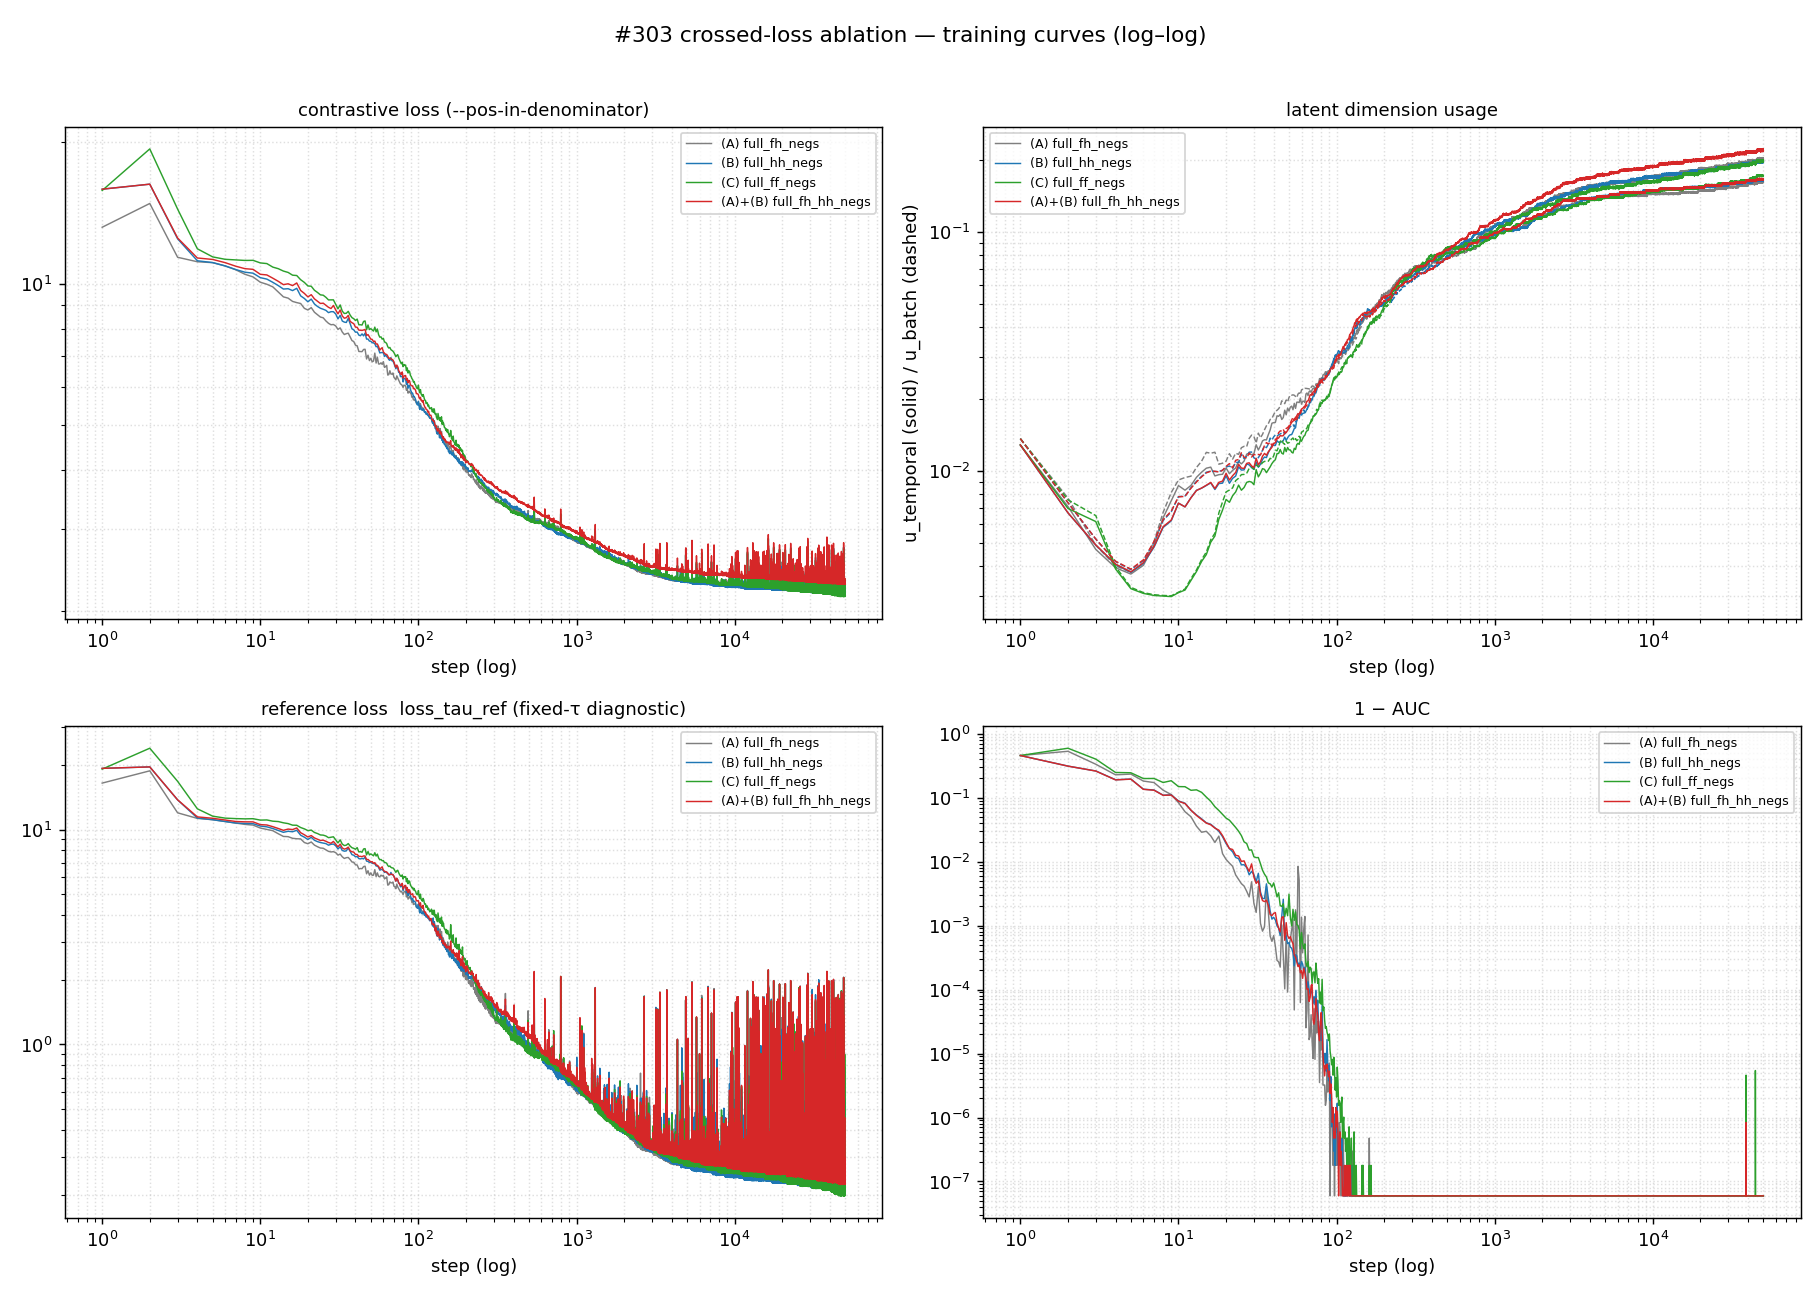
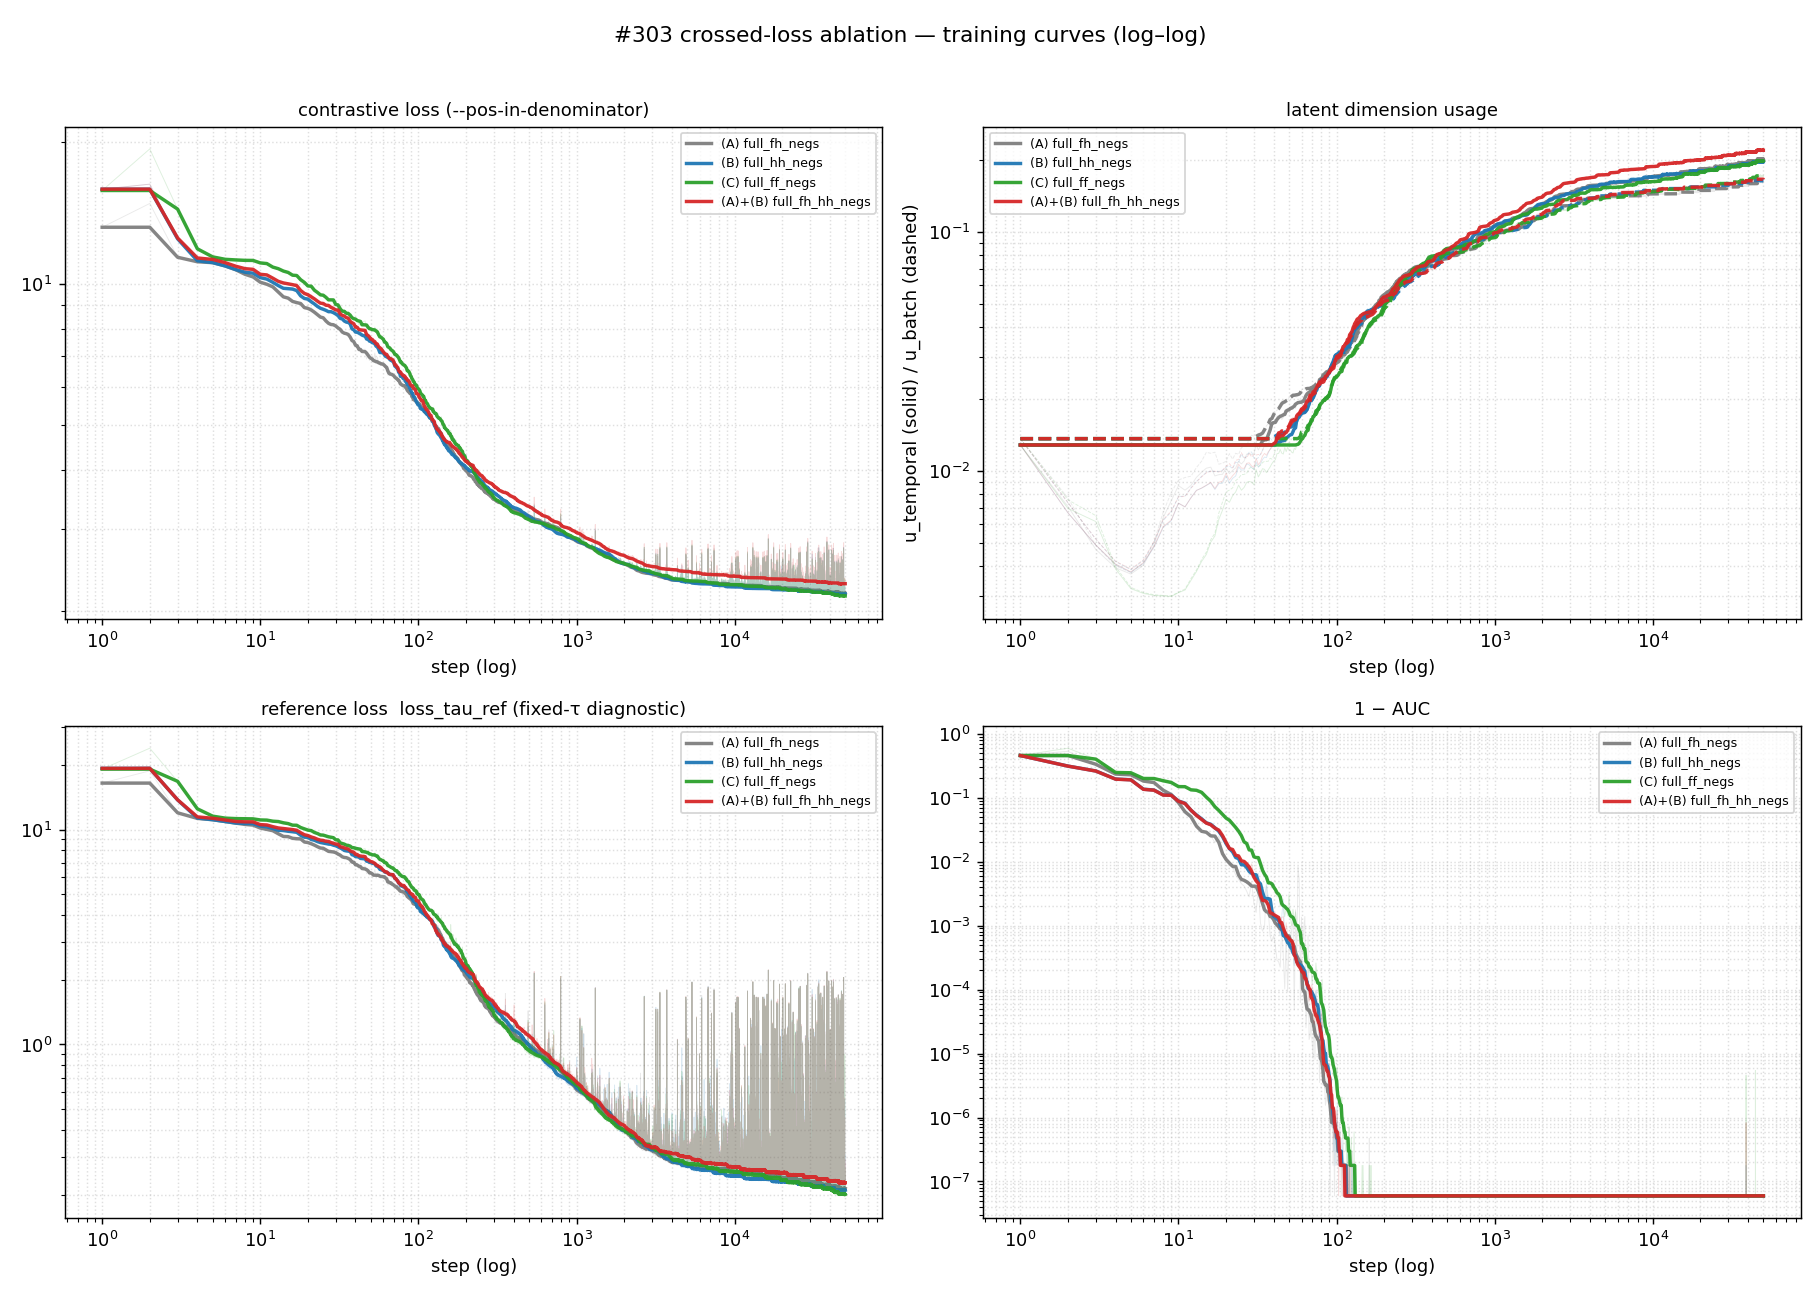
exp(#303): add loss-structure diagram + smooth the log-log curves
Per user review:
- plot_loss_diagram.py → plots/loss_diagram.png: the loss-of-record (A)
  on a t-2..t+2 ladder (anchor fₜ, green positive h_{t+1}, red fₜ↔hₗ
  ∀l≠t+1 negatives), square-loss-diagram style, deliberately not
  exhaustive; embedded in Protocol. Caption ties (B)/(C) to the same
  ladder.
- plot_results.py: log-log curves now draw raw faint (alpha .16) +
  thick rolling-median smoothed line — loss_tau_ref/1−AUC were
  unreadable through the step spikes. Caption updated.

diff --git a/experiments/2026-05-19_crossed_loss_ablation/scripts/plot_loss_diagram.py b/experiments/2026-05-19_crossed_loss_ablation/scripts/plot_loss_diagram.py
@@ -1,0 +1,94 @@
+"""Loss-of-record (A) `cosine_similarity_batch_full_fh_negs` — the
+fₜ↔hₗ all-time crossed negative, as a horizontal time ladder.
+
+Deliberately NOT exhaustive (cf. the square-loss diagram): one anchor
+fₜ, its single positive, and its crossed-negative fan over l≠t+1. The
+base same-time cross-channel / cross-batch negatives are noted, not
+drawn. Siblings (B) hₜ↔hₗ and (C) fₜ↔fₗ reuse the SAME ladder with the
+anchor/target row swapped — stated in the caption, defined in the annex.
+"""
+import matplotlib
+matplotlib.use("Agg")
+import matplotlib.pyplot as plt
+import matplotlib.patches as mpatches
+
+fig, ax = plt.subplots(figsize=(10, 5.0))
+ax.set_xlim(0.2, 5.8)
+ax.set_ylim(0.05, 3.25)
+ax.axis("off")
+
+TIMES = ["t-2", "t-1", "t", "t+1", "t+2"]
+X = {tt: i + 1 for i, tt in enumerate(TIMES)}
+Y_F, Y_H = 2.7, 0.8                       # forecaster row (top), encoder row (bottom)
+ANCHOR = "t"                              # the anchor forecast f_t
+POS = "t+1"                               # its positive target h_{t+1}
+
+C_POS = "#2a9d2a"      # green  — positive  f_t → h_{t+1}
+C_NEG = "#c22020"      # red    — fₜ↔hₗ crossed negative (the (A) term)
+F_FACE, H_FACE = "#d0e8ff", "#ffd0d0"
+F_EDGE_A = "#d07000"   # gold edge — mark the anchor f_t
+
+def node(x, y, face, edge="#333", lw=1.6, s=560):
+    ax.scatter(x, y, s=s, zorder=5, color=face, edgecolors=edge, linewidths=lw)
+
+# crossed negatives: f_t ↔ h_l  for every l ≠ t+1 (the (A) term)
+for tt in TIMES:
+    if tt == POS:
+        continue
+    ax.annotate("", xy=(X[tt], Y_H + 0.18), xytext=(X[ANCHOR], Y_F - 0.18),
+                arrowprops=dict(arrowstyle="-", color=C_NEG, lw=1.8,
+                                alpha=0.85,
+                                connectionstyle="arc3,rad=0.06"), zorder=2)
+# positive: f_t → h_{t+1}
+ax.annotate("", xy=(X[POS], Y_H + 0.18), xytext=(X[ANCHOR], Y_F - 0.18),
+            arrowprops=dict(arrowstyle="-|>", color=C_POS, lw=3.0,
+                            connectionstyle="arc3,rad=0.06"), zorder=4)
+
+# nodes + labels
+for tt in TIMES:
+    is_anchor = tt == ANCHOR
+    node(X[tt], Y_F, F_FACE,
+         edge=F_EDGE_A if is_anchor else "#333",
+         lw=3.0 if is_anchor else 1.6)
+    is_pos = tt == POS
+    node(X[tt], Y_H, H_FACE,
+         edge=C_POS if is_pos else "#333",
+         lw=3.0 if is_pos else 1.6)
+    ax.text(X[tt], Y_F + 0.34, rf"$f_{{{tt}}}$", ha="center", va="bottom",
+            fontsize=12, fontweight="bold")
+    ax.text(X[tt], Y_H - 0.34, rf"$h_{{{tt}}}$", ha="center", va="top",
+            fontsize=12, fontweight="bold")
+
+ax.text(0.35, Y_F, "forecaster", ha="left", va="center", fontsize=9,
+        color="#666", style="italic")
+ax.text(0.35, Y_H, "encoder", ha="left", va="center", fontsize=9,
+        color="#666", style="italic")
+ax.annotate("", xy=(5.55, 1.75), xytext=(0.75, 1.75),
+            arrowprops=dict(arrowstyle="->", color="#d8d8d8", lw=1.1))
+ax.text(5.55, 1.92, "time", ha="right", fontsize=8.5, color="#bbb",
+        style="italic")
+
+ax.set_title(
+    "Loss-of-record (A) — the fₜ↔hₗ all-time crossed negative\n"
+    r"anchor $f_t$: positive $h_{t+1}$; negatives $h_\ell\ \forall\,\ell\neq t{+}1$",
+    fontsize=11.5, pad=6)
+
+leg = [
+    mpatches.Patch(color=C_POS, label=r"positive  $f_t \rightarrow h_{t+1}$"),
+    mpatches.Patch(color=C_NEG,
+                   label=r"(A) crossed negative  $f_t \leftrightarrow h_\ell$,"
+                         r" $\ell\neq t{+}1$"),
+]
+ax.legend(handles=leg, loc="lower center", ncol=2, fontsize=9,
+          framealpha=0.95, edgecolor="#ccc", bbox_to_anchor=(0.5, -0.16))
+ax.text(0.5, -0.30,
+        "Base same-time cross-channel & cross-batch negatives omitted for "
+        "clarity (annex).  Siblings reuse this ladder: (B) swaps the anchor "
+        r"row → $h_t\!\leftrightarrow\!h_\ell$;  (C) → $f_t\!\leftrightarrow\!f_\ell$.",
+        transform=ax.transAxes, ha="center", va="top", fontsize=8.2,
+        color="#777")
+
+out = ("/home/jupyter/cf-wt-crossed-loss/experiments/"
+       "2026-05-19_crossed_loss_ablation/plots/loss_diagram.png")
+fig.savefig(out, dpi=150, bbox_inches="tight")
+print(f"saved → {out}")

diff --git a/experiments/2026-05-19_crossed_loss_ablation/scripts/plot_results.py b/experiments/2026-05-19_crossed_loss_ablation/scripts/plot_results.py
@@ -156,6 +156,23 @@ def posmask(step, y):
     return step[m], y[m]
 
 
+def smooth(y):
+    """Rolling median — spike-robust, minimal lag (loss_tau_ref / 1−AUC
+    are step-to-step spiky and unreadable raw). Window scales with the
+    series length; edge-padded so the early descent is preserved."""
+    y = np.asarray(y, float)
+    n = len(y)
+    if n < 8:
+        return y
+    w = max(21, n // 400)
+    if w % 2 == 0:
+        w += 1
+    w = min(w, n if n % 2 else n - 1)
+    yp = np.pad(y, w // 2, mode="edge")
+    sw = np.lib.stride_tricks.sliding_window_view(yp, w)
+    return np.nanmedian(sw, axis=1)
+
+
 series = [(lab, col, load(lc)) for lab, col, lc, _ in ARMS]
 series = [(l, c, d) for l, c, d in series if d is not None and len(d.get("step", [])) > 1]
 if series:
@@ -183,8 +200,11 @@ if series:
                 x, yy = posmask(st, y)
                 if len(x) == 0:
                     continue
-                ax.plot(x, yy, lw=.8, color=col, ls=(ls or "-"),
-                        label=(lbl if lbl else None))
+                # raw faint behind; thick smoothed (median) on top
+                ax.plot(x, yy, lw=.5, color=col, ls=(ls or "-"), alpha=.16)
+                xs, ys = posmask(st, smooth(y))
+                ax.plot(xs, ys, lw=1.9, color=col, ls=(ls or "-"),
+                        alpha=.95, label=(lbl if lbl else None))
         ax.set_xscale("log"); ax.set_yscale("log")
         ax.set_xlabel("step (log)"); ax.set_title(title, fontsize=10)
         ax.grid(True, which="both", ls=":", alpha=.4)

diff --git a/experiments/2026-05-19_crossed_loss_ablation/RESULTS.md b/experiments/2026-05-19_crossed_loss_ablation/RESULTS.md
@@ -44,7 +44,9 @@ per arm would need multiple seeds (not run; see Follow-up).
 ![Training curves (log–log)](plots/training_curves.png)
 *Contrastive loss, latent dimension usage (u_temporal / u_batch), the
 fixed-τ `loss_tau_ref` diagnostic, and 1−AUC, all log–log, four arms
-overlaid. (A), (B), (C) are near-identical (final loss 2.18 / 2.18 /
+overlaid (thick = rolling-median smoothed, raw faint behind —
+`loss_tau_ref`/1−AUC are step-to-step spiky). (A), (B), (C) are
+near-identical (final loss 2.18 / 2.18 /
 2.15, `loss_tau_ref` 0.20–0.21, u_temporal ≈0.20, u_batch ≈0.16–0.17,
 1−AUC ≈6e-8 — positives fully separated from negatives); (A)+(B) sits
 ~5% higher in contrastive loss (2.29, `loss_tau_ref` 0.23, u_temporal
@@ -81,6 +83,13 @@ pins (`TestCrossedLossSiblings`) + 113-test loss suite green; baseline A
 independently re-audited positive-free
 ([`scripts/verify_A_positive_exclusion.py`](scripts/verify_A_positive_exclusion.py),
 all PASS). Wall-clock in the back annex.
+
+![Loss-of-record (A): the fₜ↔hₗ all-time crossed negative](plots/loss_diagram.png)
+*The loss-of-record A on a time ladder: anchor fₜ has one positive
+(h_{t+1}, green) and is pushed from the encoder hₗ at every other l (red,
+the **fₜ↔hₗ** term). Siblings reuse the same ladder — (B) swaps the
+anchor row to hₜ↔hₗ, (C) to fₜ↔fₗ (annex). Base same-time cross-channel
+& cross-batch negatives (shared by all arms) omitted for clarity.*
 
 ## What we learned
 
